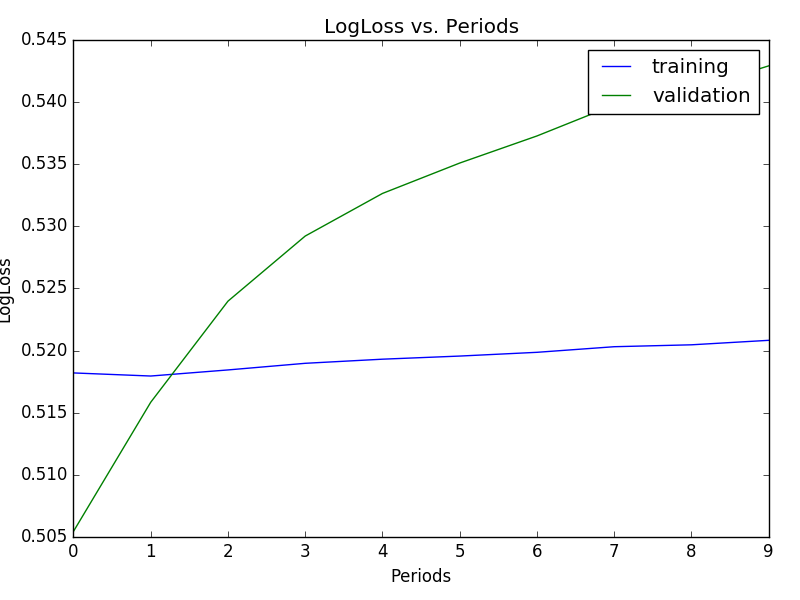
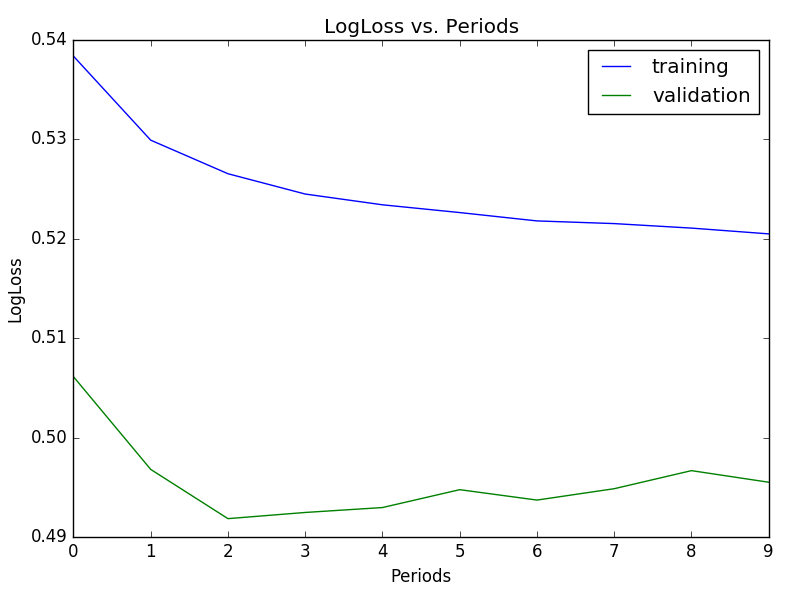
run ml on all loci

diff --git a/scripts/msi_script.py b/scripts/msi_script.py
@@ -8,6 +8,8 @@ from constants import _MSI_LOCI, _QUALITY_THRESHOLDS, _ANNOTATIONS, _MSS_LOCUS_D
 from ortools.linear_solver import pywraplp
 import pandas as pd
 import numpy as np
+import subprocess
+import os
 # ----------- Main --------------
 #store bamfiles in a list
 directory = '/home/upload/msi_project/tcga_bam/tumor_bams/annotated/subset'
@@ -99,12 +101,160 @@ test_set = '/home/upload/msi_project/tcga_bam/tumor_bams/ml_set/test_set'
 
 setlist = [training_set, validation_set]
 
-get_set_data(setlist, 'MSI-06')
+loci = ['BAT-26', 'MSI-07', 'MSI-09', 'H-06', 'MSI-06', 'MSI-04', 'HSPH1-T17', 'MSI-14', 'MSI-03']
+
+weights = {}
+
+infile = '/home/upload/msi_project/ML/testloci.txt'
+
+with open (infile, 'r') as f:
+  lines = f.readlines()
+  count = 0
+  for line in lines:
+    if count == 0:
+      count += 1 
+      continue
+    fields = line.split('\t')
+    weights[fields[0]] = [fields[4], fields[5], fields[6], fields[7], fields[8].replace('\n', '')]
+
+def calling_function(directory, loci):
+	tp = tn = fp = fn = 0 
+	threshold = 0.5
+	min_loci = 3
+	bamfiles = bamprocess.scan_files(directory)
+	correct_guesses = 0
+	total_files = 0
+	for bam in bamfiles:
+		prob_sum = 0
+		agree = False
+		num_loci = 0
+		msicall = 0
+		bam_name = bam.split('/')[-1].replace('A.bam', '')
+		#store msi status as a boolean, skip if not MSI or MSS
+		if _ANNOTATIONS[bam_name] == 'MSI':
+			msi_status = 1
+		elif _ANNOTATIONS[bam_name] == 'MSS':
+			msi_status = 0
+		else:
+			continue
+		print 'Bam file: %s' % bam_name
+		for locus in loci:
+			accepted_reads = count_reads.count(bam, locus)
+			reads = count_reads.count(bam, locus)
+
+			#if there are NO reads at this locus in the file, skip and go to the next bamfile
+			if len(reads) == 0:
+				continue
+			num_loci += 1
+
+			#compute the lengths of the reads, store in a list, append to the overall lengths list
+			bam_lengths = [len(e) for e in reads]
+      
+			#compute the average length of a bam's reads, append to the overall avg_lengths list
+			avg_length = np.mean(bam_lengths)
+
+			#compute number of different lengths of a bam's reads, append to overall nums_lengths list
+			num_lengths = len(set(bam_lengths))
+
+			#compute the standard deviation of a bam's reads, append to overall stdevs list
+			stdev = np.std(bam_lengths)
+       	
+			#compute the average distance from the mode length
+			distance = 0
+			count = 0
+			for e in bam_lengths:
+				distance += abs(e - float(_ML_MODES[locus]))
+				count += 1
+				dist_mode = distance / count
+	
+			prob = calc_prob(locus, avg_length, dist_mode, num_lengths, stdev) 
+			print 'Locus: %s' % locus
+			print 'Prob: %f' % prob
+			prob_sum += prob
+			#if prob >= 0.5:
+				#msicall += 1
+				#print 'Locus-level call: MSI'
+			#else:
+				#print 'Locus-level call: MSS'
+		
+		#no reads at any locus
+		if num_loci < min_loci:
+			continue
+     		
+		#count how many files were called
+		total_files += 1 
+		
+		#make a prediction
+		guessed_status = 0
+		print '\nNum loci examined: %d' % num_loci
+		print 'Num MSI calls: %d' % msicall
+		perc_msi = float(msicall) / num_loci
+		print '%%MSI: %f' % perc_msi
+		#if perc_msi >= threshold:
+			#guessed_status = 1
+		avg_prob = prob_sum / num_loci
+		if avg_prob > threshold:
+			guessed_status = 1
+			print '\nPredicted status: MSI'
+		else:
+			print '\nPredicted status: MSS'	
+		
+		print 'Known status: %s' % _ANNOTATIONS[bam_name]
+		#decide whether prediction is correct
+		if guessed_status == msi_status:
+			correct_guesses += 1
+			print 'Agree: YES'
+		else:
+			print 'Agree: NO'
+		
+		print '\n'
+    
+		#calculate tp, fp, tn, fn
+		if guessed_status == 1 and msi_status == 1:
+			tp += 1
+		elif guessed_status == 1 and msi_status == 0:
+			fp += 1
+		elif guessed_status == 0 and msi_status == 1:
+			fn += 1
+		elif guessed_status == 0 and msi_status == 0:
+			tn += 1
+
+	print 'Summary:'
+	print 'Loci examined: ' + (' '.join(loci)) 
+	print 'Threshold: %f' % threshold
+	print 'Min no. loci: %d' % min_loci
+	print 'Correct predictions: %s' % correct_guesses
+	print 'Total files: %s' % total_files
+	print 'Accuracy: %f' % (float(correct_guesses) / total_files)
+	print 'True pos: %d' % tp
+	print 'True neg: %d' % tn
+	print 'False pos: %d' % fp
+	print 'False neg: %d' % fn
+	print 'Sensitivity: %f' % (float(tp) / (tp + fn))
+	print 'Specificity: %f' % (float(tn) / (tn + fp))
+ 
+def calc_prob(locus, avg_len, dist_mode, num_lens, stdev):
+  yhat = (float(weights[locus][0]) * avg_len) + (float(weights[locus][1]) * dist_mode) + (float(weights[locus][2]) * num_lens) + (float(weights[locus][3]) * stdev) + float(weights[locus][4])
+  yhat *= -1
+  prob = 1 / (1 + pow(2.718281, yhat))
+  return prob	
+
+calling_function(validation_set, loci)
 
 
+'''
+def mkdirs():
+	for locus in _MSI_LOCI:
+		directory = '/home/upload/msi_project/ML/%s' % locus
+		try:
+			if not os.path.exists(directory):
+				os.makedirs(directory)
+			
+		except OSError:
+			print 'Error creating %s' % directory
 
-
-
+mkdirs()
+'''
 
 
 

diff --git a/scripts/ml.py b/scripts/ml.py
@@ -1,4 +1,5 @@
 ##Code modified from Google's Machine Learning Crash Course
+from constants import _MSI_LOCI
 import math
 
 import matplotlib
@@ -13,10 +14,6 @@ from tensorflow.python.data import Dataset
 tf.logging.set_verbosity(tf.logging.ERROR)
 pd.options.display.max_rows = 10
 pd.options.display.float_format = '{:.1f}'.format
-
-training_set = pd.read_csv("/home/upload/msi_project/ML/MSI-06/training_set_df.txt", sep="\t")
-validation_set = pd.read_csv("/home/upload/msi_project/ML/MSI-06/validation_set_df.txt", sep="\t")
-
 
 def preprocess_features(locus_df):
   """Prepares input features from a locus data set.
@@ -52,25 +49,6 @@ def preprocess_targets(locus_df):
   output_targets["msi_status"] = locus_df["msi_status"]
   return output_targets
 
-
-# Preprocess training examples and targets.
-training_examples = preprocess_features(training_set)
-training_targets = preprocess_targets(training_set)
-
-# Choose the last 5000 (out of 17000) examples for validation.
-validation_examples = preprocess_features(validation_set)
-validation_targets = preprocess_targets(validation_set)
-
-# Double-check that we've done the right thing.
-#print("Training examples summary:")
-#print training_examples.describe()
-#print("Validation examples summary:")
-#print validation_examples.describe()
-
-#print("Training targets summary:")
-#print training_targets.describe()
-#print("Validation targets summary:")
-#print validation_targets.describe()
 
 def construct_feature_columns(input_features):
   """Construct the TensorFlow Feature Columns.
@@ -112,6 +90,7 @@ def my_input_fn(features, targets, batch_size=10, shuffle=True, num_epochs=None)
     return features, labels
 
 def train_linear_classifier_model(
+    locus,
     learning_rate,
     steps,
     batch_size,
@@ -203,12 +182,14 @@ def train_linear_classifier_model(
   plt.plot(training_log_losses, label="training")
   plt.plot(validation_log_losses, label="validation")
   plt.legend()
-  plt.savefig('/home/upload/msi_project/ML/MSI-06/loss.png')
+  plt.savefig('/home/upload/msi_project/ML/%s/loss.png' % locus)
   plt.clf()
   return linear_classifier
 
 def run_test(params):
+  print params[4]
   linear_classifier = train_linear_classifier_model(
+            locus=params[4],
             learning_rate=params[0],
             steps=params[1],
             batch_size=params[2],
@@ -248,9 +229,9 @@ def run_test(params):
   plt.ylabel('True Positive Rate (Sensitivity)')
   plt.xlabel('False Positive Rate (1 - Specificity)')
   _ = plt.legend(loc=2)
-  plt.savefig('/home/upload/msi_project/ML/MSI-06/roc.png')
+  plt.savefig('/home/upload/msi_project/ML/%s/roc.png' % locus)
   plt.clf()
-  with open('/home/upload/msi_project/ML/MSI-06/hyperparameters.txt', 'a') as f:
+  with open('/home/upload/msi_project/ML/%s/hyperparameters.txt' % locus, 'a') as f:
     f.write(str(in_learning_rate) + '\t' +
             str(in_steps) + '\t' +		 
             str(in_batch_size) + '\t' +
@@ -264,16 +245,33 @@ def run_test(params):
   for name in names:
     print name 
   for value in values:
-    print value	
+    print value
 
 
-in_learning_rate = 0.005
-in_steps = 5000000
+
+
+locus = 'MSI-14'
+
+training_set = pd.read_csv("/home/upload/msi_project/ML/%s/training_set_df.txt" % locus, sep="\t")
+validation_set = pd.read_csv("/home/upload/msi_project/ML/%s/validation_set_df.txt" % locus, sep="\t")
+# Preprocess training examples and targets.
+training_examples = preprocess_features(training_set)
+training_targets = preprocess_targets(training_set)
+
+# Preprocess validation examples and targets
+validation_examples = preprocess_features(validation_set)
+validation_targets = preprocess_targets(validation_set)
+ 
+in_learning_rate = 0.01
+in_steps = 50000
 in_batch_size = 50
-regularization_strength = 2.0
+regularization_strength = 0
 
-params=[in_learning_rate, in_steps, in_batch_size, regularization_strength]
+params=[in_learning_rate, in_steps, in_batch_size, regularization_strength, locus]
 run_test(params)
+
+
+
 
 '''
 w_al = -.1977892
